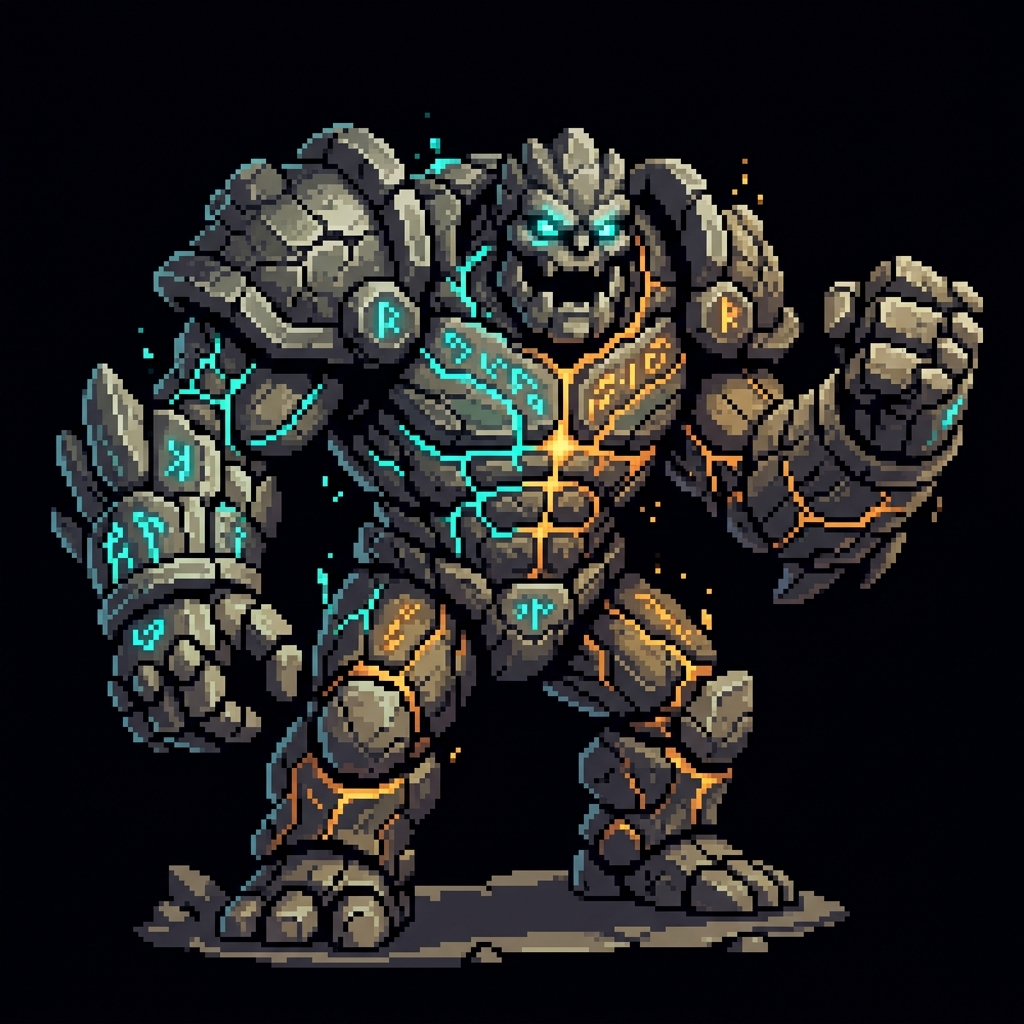
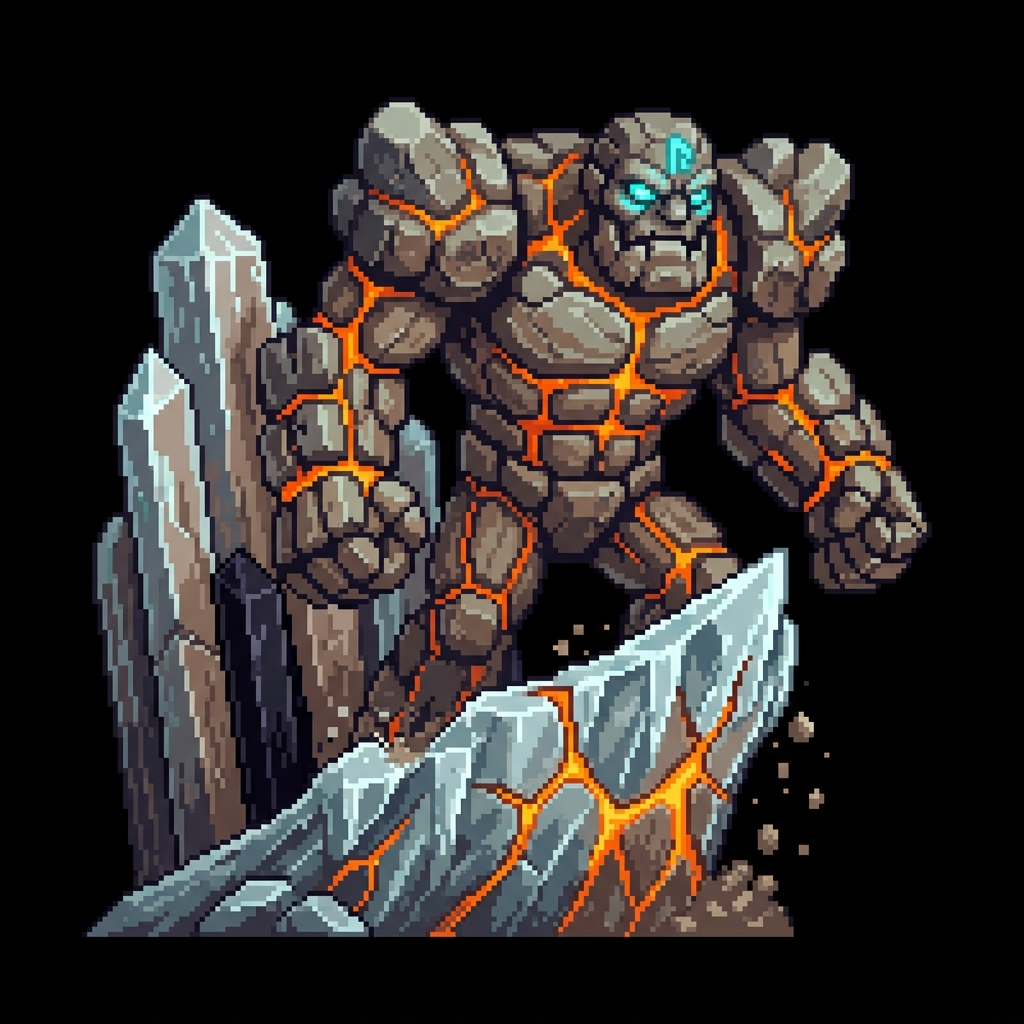
feat: Stone Titan Lissandra-style bedrock glide, new Nature Tree rune, refined Void rune

diff --git a/index.html b/index.html
@@ -7091,12 +7091,22 @@ function updateBossAi(en, dt, player, biome, now) {
   tryMove(en, moveDx, moveDy);
   en.walkTimer = (en.walkTimer || 0) + (spd * dt * 0.16);
 
-  // Heavy titan footstep stomp dust
-  if (Math.sin((en.walkTimer || 0) * 2) > 0.85 && (!en.lastFootstep || now - en.lastFootstep > 260)) {
-    en.lastFootstep = now;
-    const dustX = en.x + (Math.sin(en.walkTimer) > 0 ? 16 : -16);
-    const dustY = en.y + en.r * 0.52;
-    burst(dustX, dustY, '#8d6e63', 3, 1.5);
+  // Boss movement & bedrock friction FX
+  if (bk === 'stone') {
+    // Lissandra stone glacier glide: continuous bedrock grinding friction, rock sparks and sliding dust
+    if (Math.random() < 0.38) {
+      const gX = en.x + (Math.random() - 0.5) * (en.r * 1.3);
+      const gY = en.y + en.r * 0.5 + (Math.random() - 0.5) * 6;
+      burst(gX, gY, Math.random() < 0.4 ? '#ffb74d' : '#8d6e63', 2, 1.2);
+    }
+  } else {
+    // Heavy titan footstep stomp dust for bipedal bosses
+    if (Math.sin((en.walkTimer || 0) * 2) > 0.85 && (!en.lastFootstep || now - en.lastFootstep > 260)) {
+      en.lastFootstep = now;
+      const dustX = en.x + (Math.sin(en.walkTimer) > 0 ? 16 : -16);
+      const dustY = en.y + en.r * 0.52;
+      burst(dustX, dustY, '#8d6e63', 3, 1.5);
+    }
   }
 
   // Smooth attack lunge recovery
@@ -10100,18 +10110,50 @@ function drawBiomeBoss(ctx, x, y, r, en, time, biome, fogged) {
       ctx.shadowBlur = 16;
     }
 
-    // 1. Dynamic Walking Bobbing & Heavy Titan Waddle Tilt
+    // 1. Dynamic Movement Animation (Lissandra Gliding for Stone Titan, Heavy Waddle for others)
+    const isStoneLissandra = (bk === 'stone');
     const walkTimer = en.walkTimer || (time * 0.15);
-    const walkBob = Math.abs(Math.sin(walkTimer * 2)) * 6.5;
-    const walkTilt = Math.sin(walkTimer) * 0.08;
     const facingLeft = typeof player !== 'undefined' && player && player.x < x;
+
+    // Stone Titan glides smoothly over bedrock like Lissandra with floating hum & forward prow tilt
+    const walkBob = isStoneLissandra
+      ? Math.sin(time * 0.12) * 2.5
+      : Math.abs(Math.sin(walkTimer * 2)) * 6.5;
+    const walkTilt = isStoneLissandra
+      ? (facingLeft ? -0.045 : 0.045) + Math.sin(time * 0.08) * 0.015
+      : (facingLeft ? -Math.sin(walkTimer) * 0.08 : Math.sin(walkTimer) * 0.08);
+
+    // Bedrock sliding wake under Lissandra stone monolith
+    if (isStoneLissandra) {
+      ctx.save();
+      const wakeDir = facingLeft ? 1 : -1;
+      const wakeG = ctx.createRadialGradient(x, cy + r * 0.48, r * 0.2, x, cy + r * 0.48, r * 1.55);
+      wakeG.addColorStop(0, 'rgba(255, 183, 77, 0.45)');
+      wakeG.addColorStop(0.55, 'rgba(141, 110, 99, 0.35)');
+      wakeG.addColorStop(1, 'transparent');
+      ctx.fillStyle = wakeG;
+      ctx.beginPath();
+      ctx.ellipse(x, cy + r * 0.48, r * 1.55, r * 0.4, 0, 0, Math.PI * 2);
+      ctx.fill();
+
+      // Magma/fissure streak lines beneath sliding base
+      ctx.strokeStyle = 'rgba(255, 183, 77, 0.6)';
+      ctx.lineWidth = 2.5;
+      ctx.beginPath();
+      ctx.moveTo(x - wakeDir * r * 0.85, cy + r * 0.5);
+      ctx.lineTo(x + wakeDir * r * 0.35, cy + r * 0.5);
+      ctx.moveTo(x - wakeDir * r * 0.65, cy + r * 0.44);
+      ctx.lineTo(x + wakeDir * r * 0.6, cy + r * 0.44);
+      ctx.stroke();
+      ctx.restore();
+    }
 
     // 2. Attack Lunge Offset
     const lx = en.atkLungeX || 0;
     const ly = en.atkLungeY || 0;
 
     ctx.translate(x + lx, cy + walkBob + ly);
-    ctx.rotate(facingLeft ? -walkTilt : walkTilt);
+    ctx.rotate(walkTilt);
 
     // 3. Breath & Hit Reaction Squash
     const breath = 1 + Math.sin(time * 0.15 + (en.phase || 0)) * 0.03;
@@ -12707,7 +12749,7 @@ syncSfxUi();
 pauseBtn.addEventListener('click', e => { e.stopPropagation(); togglePause(); });
 pauseBtn.addEventListener('touchstart', e => { e.preventDefault(); e.stopPropagation(); togglePause(); }, {passive:false});
 
-const BUILD_ID = '20260917g';
+const BUILD_ID = '20260917h';
 
 // Mobil Native Donanım Geri Tuşu (Android Back Button) Yönetimi
 function handleMobileBackButton() {
